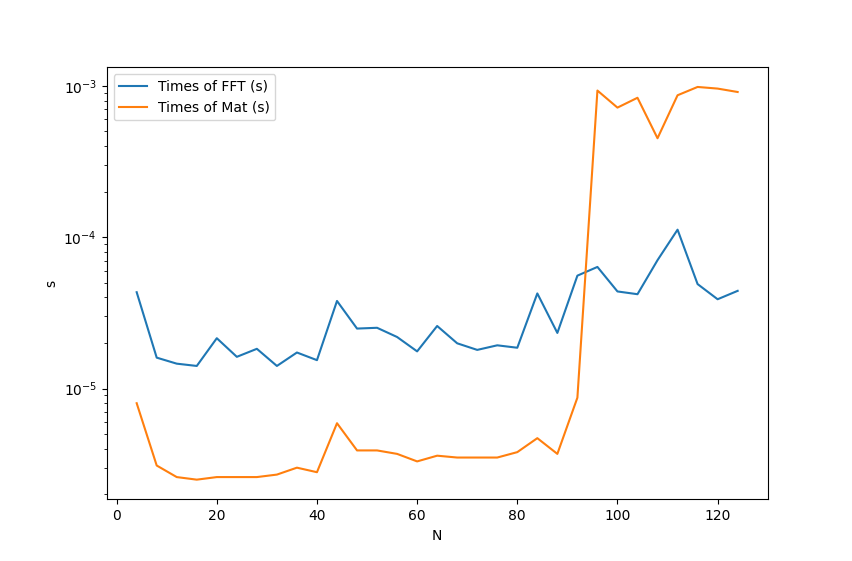
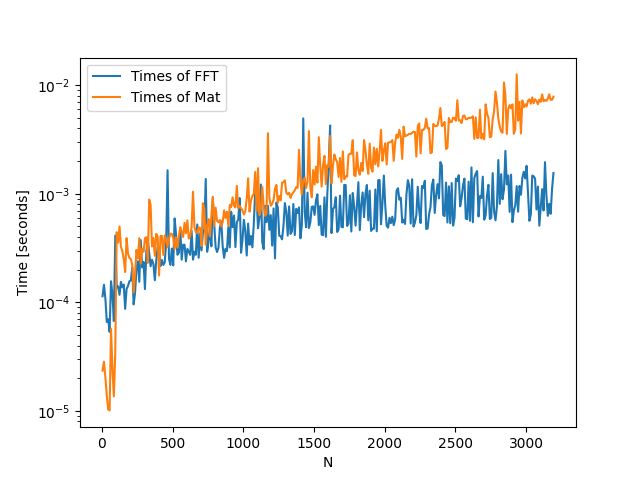
rettelser af plot osv

diff --git a/Assignment1/ex1.py b/Assignment1/ex1.py
@@ -25,7 +25,7 @@ def convergence_list(N_list,fourier_approx,u_func,uk_func):
 
         u_approx = fourier_approx(k_lin,x_lin,uk_func(k_lin))
 
-        trunc_err.append(np.max(np.abs((u_func(x_lin)-u_approx))))
+        trunc_err.append(np.max(np.abs(u_func(x_lin)-u_approx)))
 
     return trunc_err
 
@@ -131,9 +131,7 @@ if __name__ == "__main__":
     plt.semilogy(N_list,trunc_err,"o-",label=r"Numerical: $||u - P_Nu ||^2$")
     plt.semilogy(N_list[:-17],(2-np.sqrt(3))**(N_list[:-17]/2),label=r"Analytical: $||\tau||^2 \sim e^{- \alpha \frac{N}{2}}$")
     plt.xlabel("N")
-    plt.ylabel(r"$||\tau||^2$")
     plt.legend(fontsize=12) 
-    plt.title("Convergence Plot (logarithmic y-axis)")
     #plt.show()
 
     #%%
@@ -170,8 +168,8 @@ if __name__ == "__main__":
     axs[0, 0].set_title(r"Error with $N=4$", fontsize=fontsize)
 
     # Second subplot (N = 4, comparison of approx and exact)
-    axs[0, 1].plot(k_lin1, uk_approx1, "o-", label=r"Approx: $\tilde{u}_k$")
-    axs[0, 1].plot(k_lin1, uk_exact1, "o-", label=r"Exact: $\hat{u}_k$")
+    axs[0, 1].semilogy(k_lin1, uk_approx1, "o-", label=r"Approx: $\tilde{u}_k$")
+    axs[0, 1].semilogy(k_lin1, uk_exact1, "o-", label=r"Exact: $\hat{u}_k$")
     axs[0, 1].set_xlabel("k", fontsize=fontsize)
     axs[0, 1].set_ylabel(r"$u_k$", fontsize=fontsize)
     axs[0, 1].legend(fontsize=fontsize)
@@ -184,8 +182,8 @@ if __name__ == "__main__":
     axs[1, 0].set_title(r"Error with $N=10$", fontsize=fontsize)
 
     # Fourth subplot (N = 10, comparison of approx and exact)
-    axs[1, 1].plot(k_lin2, uk_approx2, "o-", label=r"Approx: $\tilde{u}_k$")
-    axs[1, 1].plot(k_lin2, uk_exact2, "o-", label=r"Exact: $\hat{u}_k$")
+    axs[1, 1].semilogy(k_lin2, uk_approx2, "o-", label=r"Approx: $\tilde{u}_k$")
+    axs[1, 1].semilogy(k_lin2, uk_exact2, "o-", label=r"Exact: $\hat{u}_k$")
     axs[1, 1].set_xlabel("k", fontsize=fontsize)
     axs[1, 1].set_ylabel(r"$u_k$", fontsize=fontsize)
     axs[1, 1].legend(fontsize=fontsize)
@@ -218,7 +216,6 @@ if __name__ == "__main__":
     plt.figure(3)
     plt.plot(N_list,np.log(err),"o-",label=r"$\max_k \ |\tilde{u}_k - \hat{u}_k|$")
     plt.xlabel("N")
-    plt.ylabel(r"Error")
     plt.title("Convergence of Fourier Coefficients")
     plt.legend(fontsize=12)
     #plt.show()
@@ -235,9 +232,7 @@ if __name__ == "__main__":
     plt.semilogy(N_convergence_list,trunc_err,"o-",label=r"Numerical: $||u - P_Nu ||^2$")
     #plt.semilogy(N_convergence_list[:-17],norm_2_tau(N_convergence_list[:-17]),label=r"Analytical: $||\tau||^2 \sim e^{- \alpha \frac{N}{2}}$")
     plt.xlabel("N")
-    plt.ylabel(r"$||\tau||^2$")
     plt.legend()
-    plt.title("Convergence Plot (Semilog)")
     
     
     # Discrete fourier transform
@@ -274,13 +269,11 @@ if __name__ == "__main__":
     trunc_err_approx = convergence_list(N_convergence_list,fourier_approx,u_func,uk_approx_func)
 
     plt.figure(7)
-    plt.semilogy(N_convergence_list,trunc_err,"o-",label=r"$||u - P_Nu ||_{\infty}$")
-    plt.semilogy(N_convergence_list,trunc_err_approx,"o-",label="$||u - I_Nu||_{\infty}$")
+    plt.semilogy(N_convergence_list,trunc_err,"o-",label=r"$||u - P_Nu ||^2$")
+    plt.semilogy(N_convergence_list,trunc_err_approx,"o-",label="$||u - I_Nu||^2$")
     plt.semilogy(N_list[:-17],(2-np.sqrt(3))**(N_list[:-17]/2),label=r"$||\tau||^2 \sim e^{- \alpha \frac{N}{2}}$")
     plt.xlabel("N")
-    plt.ylabel(r"$||\tau||^2$")
     plt.legend()
-    plt.title("Convergence plot")
 
     #%% Lagrange interpolation Exercise C
 
@@ -334,7 +327,7 @@ if __name__ == "__main__":
 
     # Plot approximate diff for several N and the convergence plot
 
-    N_convergence_list = np.arange(4,64*10,8)
+    N_convergence_list = np.arange(4,64*50,50)
     err = np.zeros(len(N_convergence_list))
     for idx,Nc in enumerate(N_convergence_list):
         j_lin_loop   = np.arange(0,Nc)
@@ -350,14 +343,13 @@ if __name__ == "__main__":
         Dv_approx = D@v(xj_loop) 
         plt.plot(xj_loop,Dv_approx,label=f"$Dv$ for N = {Nc}",linestyle='--')
         plt.xlabel("N")
-        plt.ylabel("Dv")
         plt.legend()
         plt.grid()
         
     plt.figure(12)
-    plt.semilogy(N_convergence_list,err)
+    plt.semilogy(N_convergence_list,err,label="$||v'(x)-Dv||_\infty$")
     plt.xlabel("N")
-    plt.ylabel("||v'(x)-Dv||")
+    plt.legend()
     plt.grid()
 
 
@@ -370,18 +362,19 @@ if __name__ == "__main__":
 
     k_lin_FFt = np.fft.fftfreq(N, d=(2 * np.pi) / N) * 2 * np.pi
     dvdx = ifft(1j*k_lin_FFt*fft(v(xj))).real
+    dvdx = np.append(dvdx,dvdx[0])
     D,Dh = D_matrix(N,xj,j_lin)
     Dv_approx = D@v(xj)
+    Dv_approx = np.append(Dv_approx, Dv_approx[0])
     Dv_exact = diff_v(x_lin)  
+    xj2 = np.append(xj,np.array([2*np.pi]))
 
     plt.figure(13)
-    plt.plot(x_lin,Dv_exact,label="exact")
-    plt.plot(xj,Dv_approx,'-',label="approx")
-    plt.plot(xj,dvdx,'--',label="FFT")
+    plt.plot(x_lin,Dv_exact,label="dv/dx")
+    plt.plot(xj2,Dv_approx,'-',label="Dx")
+    plt.plot(xj2,dvdx,'--',label="FFT")
     plt.legend()
-    plt.title("FFT using N=6")
     plt.xlabel("x")
-    plt.ylabel("dv/dx")
     plt.grid()
 
     #%% FFT performance study 
@@ -393,6 +386,8 @@ if __name__ == "__main__":
     times_Mat = []
     err_FFT = []
 
+    #N_convergence_list = np.arange(4,64*20,10)
+
     for Nc in N_convergence_list:
 
         # Initializations for both methods
@@ -401,12 +396,12 @@ if __name__ == "__main__":
         xj_loop      = 2*np.pi*j_lin_loop/(Nc)
         D,Dh = D_matrix(Nc,xj_loop,j_lin_loop)
 
-        # Timing FFT
+        # Timing FFT 
         t_FFT = perf_counter()
         dvdx = ifft(1j*k_lin_FFt*fft(v(xj_loop))).real
         t_FFT = perf_counter()-t_FFT
 
-        # Timing matrix
+        # Timing matrix 
         t_Dv = perf_counter()
         Dv_approx = D@v(xj_loop)
         t_Dv = perf_counter()- t_Dv
@@ -420,17 +415,18 @@ if __name__ == "__main__":
 
 
     plt.figure(14)
-    plt.semilogy(N_convergence_list,err,"o-",label="Mat convergence")
-    plt.semilogy(N_convergence_list,err_FFT,"o-",label="FFT convergence")
+    plt.semilogy(N_convergence_list,err,label="Matrix convergence")
+    plt.semilogy(N_convergence_list,err_FFT,label="FFT convergence")
     plt.xlabel("N")
-    plt.ylabel("||v'(x)-Dv||")
     plt.legend()
     plt.grid()
 
     # Performance study plot
     plt.figure(15)
-    plt.semilogy(N_convergence_list,times_FFT,"o-",label="Times of FFT")
-    plt.semilogy(N_convergence_list,times_Mat,"o-",label="Times of Mat")
+    plt.semilogy(N_convergence_list,times_FFT,label="Times of FFT")
+    plt.semilogy(N_convergence_list,times_Mat,label="Times of Mat")
+    plt.semilogy(N_convergence_list,N_convergence_list*np.log(N_convergence_list)*0.001,label="$N\logN$")
+    plt.semilogy(N_convergence_list,N_convergence_list**2*0.001,label="$N^2$")
     plt.xlabel("N")
     plt.ylabel("Time [seconds]")
     plt.legend()

diff --git a/Assignment1/ex2.py b/Assignment1/ex2.py
@@ -259,13 +259,14 @@ if __name__ == "__main__":
     k_list = np.arange(0,N)
     x_GL = JacobiGL(alpha=0, beta=0, N=N)
     vk_approx = uk_approx_func(v_func,k_list,x_GL,N,alpha=0,beta=0)
+    V = get_vandermonde(x_GL)
     
     u_approx = poly_approx(k_list,x_GL,vk_approx)
     
     
     plt.figure()
     x = np.linspace(-1,1,1000)
-    plt.plot(x_GL,u_approx,".-",label="Approx")
+    plt.plot(x_GL,u_approx,".-",label="$\mathcal{V}\hat{v}$")
     plt.plot(x,v_func(x),label=r"$\sin(\pi x)$")
     plt.xlabel("x")
     plt.legend()
@@ -300,7 +301,6 @@ if __name__ == "__main__":
     plt.figure()
     plt.semilogy(N_list,err,".-",label=r"$\max_x | \sin(\pi x) - \tilde{V} \ V^{-1} \bar{u}|$")
     plt.xlabel("N")
-    plt.ylabel("error")
     plt.legend()
     #plt.show(()
     
@@ -341,7 +341,7 @@ if __name__ == "__main__":
     for Ni in N_list:
 
         x_GL = JacobiGL(alpha=0,beta=0,N=Ni)
-        V = get_vandermonde(x_GL)
+        V = get_vandermonde_norm(x_GL)
         # v'(x)-Dv(x)
         expression = dv_func(x_GL)-D_poly(x_GL)@v_func(x_GL)
         weights    = 2/(Ni*(Ni+1))* 1/(JacobiP(x_GL,alpha=0,beta=0,N=Ni)**2)
@@ -349,10 +349,9 @@ if __name__ == "__main__":
         norm_error_V.append(expression.T@np.linalg.inv((V@V.T))@expression)
        
     plt.figure()
-    plt.semilogy(N_list, norm_error,label="Normal")
-    plt.semilogy(N_list,norm_error_V,label="V")
+    plt.semilogy(N_list, norm_error,label=r"$||v'(x)-Dv(x)||_N^2$")
+    plt.semilogy(N_list,norm_error_V,label=r"$(v'(x)-Dv(x))^T(VV^T)^{-1}(v'(x)-Dv(x))$")
     plt.xlabel("N")
-    plt.ylabel("$||v'-Dv||_N^2$")
     plt.legend()
 
     plt.figure()
@@ -362,7 +361,7 @@ if __name__ == "__main__":
 
     #%% l) 
 
-    N = 100
+    N = 10
     x_GL = JacobiGL(alpha=0,beta=0,N=N)
     V = get_vandermonde_norm(x_GL)
     M = np.linalg.inv(V@V.T)
